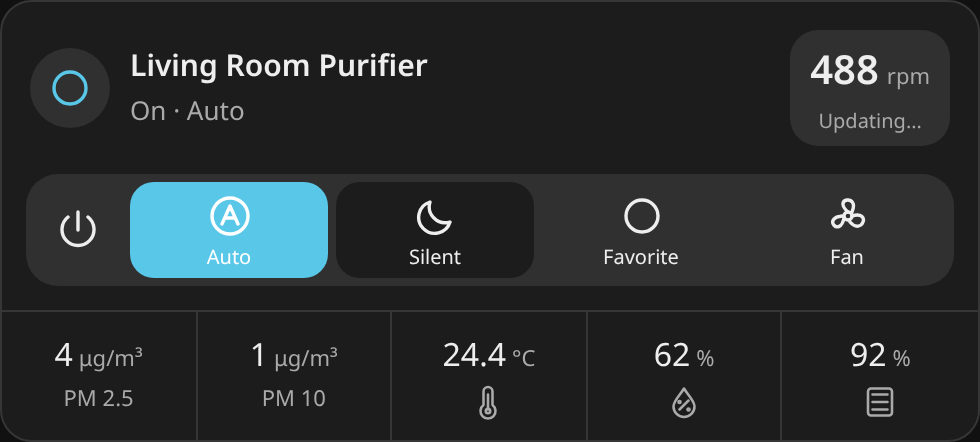
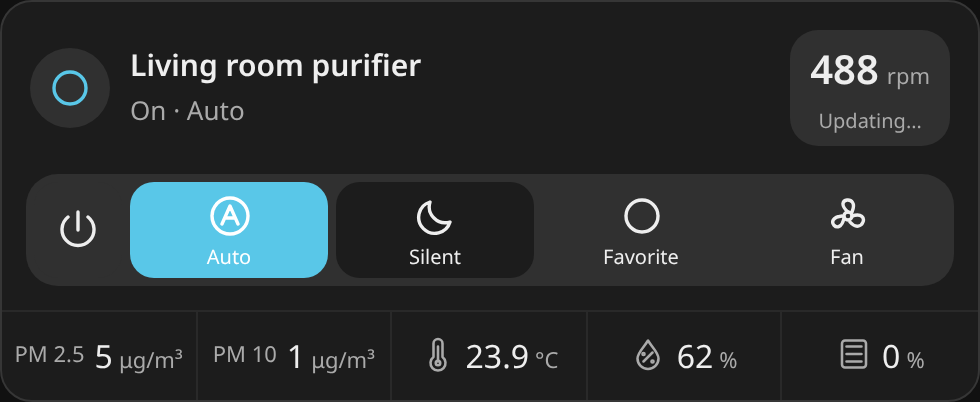
feat: refine statistics layout and expose display names

diff --git a/src/purifier-card.ts b/src/purifier-card.ts
@@ -299,21 +299,22 @@ export class PurifierCard extends LitElement {
           @click=${() => this.moreInfo(stat.entity_id)}
         >
           <span class="stats-reading"
-            ><span class="stats-value"
-              >${valid && stat.value_template ? html`<ha-template .hass=${this.hass} .template=${stat.value_template} .value=${value} .variables=${{ value }}></ha-template>` : value}</span
-            ><span class="stats-unit"
-              >${stat.unit ?? this.hass.states[stat.entity_id ?? '']?.attributes.unit_of_measurement ?? ''}</span
-            ></span
-          >${
-            icon
-              ? html`<ha-icon
+            >${
+              icon
+                ? html`<ha-icon
                     class="stats-icon"
                     .icon=${icon}
                     aria-hidden="true"
-                  ></ha-icon
-                  ><span class="sr-only">${label}</span>`
-              : html`<span class="stats-subtitle">${label}</span>`
-          }
+                  ></ha-icon>`
+                : html`<span class="stats-subtitle">${label}</span>`
+            }<span class="stats-measurement"
+              ><span class="stats-value"
+                >${valid && stat.value_template ? html`<ha-template .hass=${this.hass} .template=${stat.value_template} .value=${value} .variables=${{ value }}></ha-template>` : value}</span
+              ><span class="stats-unit"
+                >${stat.unit ?? this.hass.states[stat.entity_id ?? '']?.attributes.unit_of_measurement ?? ''}</span
+              ></span
+            ></span
+          >${icon ? html`<span class="sr-only">${label}</span>` : nothing}
         </button>`;
       })}
     </div>`;

diff --git a/src/styles.css b/src/styles.css
@@ -192,17 +192,21 @@ ha-icon {
 .stats {
   display: grid;
   grid-template-columns: repeat(var(--stat-columns, 4), minmax(0, 1fr));
-  border-top: 1px solid var(--pc-divider-color);
+  border-top: 1px solid
+    color-mix(in srgb, var(--pc-divider-color) 50%, transparent);
 }
 .stats-block {
   display: flex;
   min-width: 0;
+  min-height: 44px;
   flex-direction: column;
   align-items: center;
+  justify-content: center;
   gap: 4px;
   padding: 10px 5px;
   background: transparent;
-  border-inline-end: 1px solid var(--pc-divider-color);
+  border-inline-end: 1px solid
+    color-mix(in srgb, var(--pc-divider-color) 50%, transparent);
   color: var(--pc-secondary-text-color);
   overflow-wrap: anywhere;
 }
@@ -211,12 +215,21 @@ ha-icon {
 }
 .stats-reading {
   display: flex;
+  align-items: center;
+  justify-content: center;
+  gap: 5px;
+  max-width: 100%;
+}
+.stats-measurement {
+  display: flex;
+  min-width: 0;
   flex-wrap: wrap;
   align-items: baseline;
   justify-content: center;
   gap: 3px;
 }
 .stats-value {
+  min-width: 0;
   font-size: 16px;
   font-variant-numeric: tabular-nums;
   color: var(--pc-primary-text-color);
@@ -230,6 +243,9 @@ ha-icon {
   --mdc-icon-size: 18px;
   width: 18px;
   height: 18px;
+  flex: 0 0 18px;
+  align-self: flex-start;
+  margin-block-start: 1px;
 }
 .sr-only {
   position: absolute;
@@ -266,7 +282,8 @@ ha-icon {
   font-size: 14px;
 }
 .narrow .stats-block {
-  border-bottom: 1px solid var(--pc-divider-color);
+  border-bottom: 1px solid
+    color-mix(in srgb, var(--pc-divider-color) 50%, transparent);
 }
 .narrow .stats-block:nth-child(even) {
   border-inline-end: 0;

diff --git a/src/editor.ts b/src/editor.ts
@@ -336,6 +336,17 @@ export class PurifierCardEditor extends LitElement {
             )}
         </select></label
       >
+      <label class="field"
+        ><span>${this.text('display_name')}</span
+        ><input
+          type="text"
+          aria-label=${this.text('display_name')}
+          .value=${this.config.name ?? ''}
+          placeholder=${this.hass?.states[this.config.entity ?? '']?.attributes.friendly_name ?? this.config.entity ?? ''}
+          @input=${() => this.typingSections.add('name')}
+          @change=${(event: Event) => this.change('name', (event.target as HTMLInputElement).value.trim() || undefined)}
+      /></label>
+      <p class="hint">${this.text('display_name_help')}</p>
       <div class="detection">
         <button
           type="button"

diff --git a/README.md b/README.md
@@ -13,7 +13,7 @@ A Home Assistant dashboard card for Xiaomi air purifiers, built with TypeScript 
 - Shortcuts for native percentages, discrete levels, RPM, or custom action sequences.
 - Numeric range/step validation, ordered commands, and visible command errors.
 - Optional denser spacing, Jinja statistic templates, translations, and `--pc-*` theme variables.
-- Visual editor for the main reading, statistics, and appearance; custom shortcuts and templates can be configured in YAML.
+- Visual editor for the display name, main reading, statistics, and appearance; custom shortcuts and templates can be configured in YAML.
 
 ![Preview with simulated HA states](docs/preview.png)
 
@@ -79,7 +79,7 @@ The visual editor detects available readings when configuring a purifier. The ma
 
 For an existing card, click **Detect missing sensors** in the editor. Existing sensor choices, custom labels, units, templates, and shortcuts are preserved. Remove or change any suggestion to override it; state refreshes do not reapply removed defaults. Sensor discovery does not overwrite a field while you are typing.
 
-The visual editor includes **Main reading** and **Statistics** sections. Choose a sensor for the header reading, then use **Add statistic** to add further readings. Each statistic has an editable label, unit, and icon, ordering buttons, and a remove button. **Use text label** restores the visible label. Sensor inputs offer suggestions from HA; you can also type an entity ID. See the [editor preview](docs/editor.png).
+The visual editor includes an optional **Display name** field, plus **Main reading** and **Statistics** sections. Leave the display name empty to follow the entity’s name; an override applies only to this card ([display-name preview](docs/display-name-editor.png)). Choose a sensor for the header reading, then use **Add statistic** to add further readings. Each statistic has an editable label, unit, and icon, ordering buttons, and a remove button. **Use text label** restores the visible label. Sensor inputs offer suggestions from HA; you can also type an entity ID. See the [editor preview](docs/editor.png).
 
 Existing templates, fan attributes, and shortcuts are retained when editing labels, units, or appearance. Choosing a new sensor replaces that row's attribute source. Advanced templates and shortcut actions remain configurable in YAML.
 
@@ -102,7 +102,7 @@ Leaving the main reading source empty shows fan speed when the fan exposes a mea
 
 Both `aqi` and each statistic accept `entity_id`, `attribute`, and `unit`. Without `entity_id`, an attribute is read from the fan. Combining them reads an attribute of the specified entity. Nested attribute paths are supported. Units default to the source sensor's unit where available. Missing, unknown, and unavailable readings show `—`; real zero values remain zero.
 
-Statistics additionally accept `subtitle`, `icon`, and `value_template`. Temperature, humidity, filter remaining, and RPM use automatic icons; PM2.5 and PM10 retain their distinct short labels. Unknown readings keep their text. Labels remain available as tooltips and accessible names, and clicking a statistic still opens its entity details. Set `icon: mdi:thermometer` to override the icon or `icon: ''` to show text. Omit `icon` for automatic selection.
+Statistics additionally accept `subtitle`, `icon`, and `value_template`. Temperature, humidity, filter remaining, and RPM use automatic icons; PM2.5 and PM10 retain their distinct short labels before the values. Icons and text labels prefix each reading on the same row. Unknown readings keep their text. Labels remain available as tooltips and accessible names, and clicking a statistic still opens its entity details. Set `icon: mdi:thermometer` to override the icon or `icon: ''` to show text. Omit `icon` for automatic selection.
 
 ```yaml
 stats:

diff --git a/docs/RELEASE_NOTES.md b/docs/RELEASE_NOTES.md
@@ -1,10 +1,11 @@
-Icons for statistics.
+Inline statistics and editable display names.
 
-- Replaces standard temperature, humidity, filter-remaining, and RPM labels with thermometer, droplet, filter, and fan icons. Existing cards pick up automatic icons without configuration changes; PM2.5 and PM10 keep their distinct short labels.
-- Adds a per-statistic icon field and Use text label switch in the visual editor. YAML supports custom `icon: mdi:...` or `icon: ''` for text.
-- Preserves numeric readings/units, labels as hover tooltips and accessible names, keyboard interaction, and entity detail links. Unknown statistics keep their text label.
-- Sensor discovery includes suitable icons for renamed sensors; manual choices survive re-detection.
+- Moves statistic icons and PM2.5/PM10 labels before their values, keeping each reading compact on desktop and phone layouts.
+- Softens the statistics dividers and preserves 44px tap targets, tooltips, accessible labels, and entity detail links.
+- Adds Display name to the visual editor. Clearing it restores the entity name; overrides apply only to the card.
+- Preserves custom icons, labels, templates, and typing during HA state updates.
+- Keeps the existing RPM refresh behavior unchanged.
 
-Validation: lint, typecheck, 28 model tests, build, and 43 Chromium browser tests, including accessible names, custom/text overrides, editor preservation, typing during HA refreshes, and responsive layouts.
+Validation: lint, typecheck, 28 model tests, production build, and 45 Chromium browser tests, including inline alignment, display-name editing/clearing, and typing during HA refreshes.
 
-Update through HACS and reload the frontend. All earlier sensor-refresh behavior is retained.
+Update through HACS and reload the frontend. No configuration changes are required.
